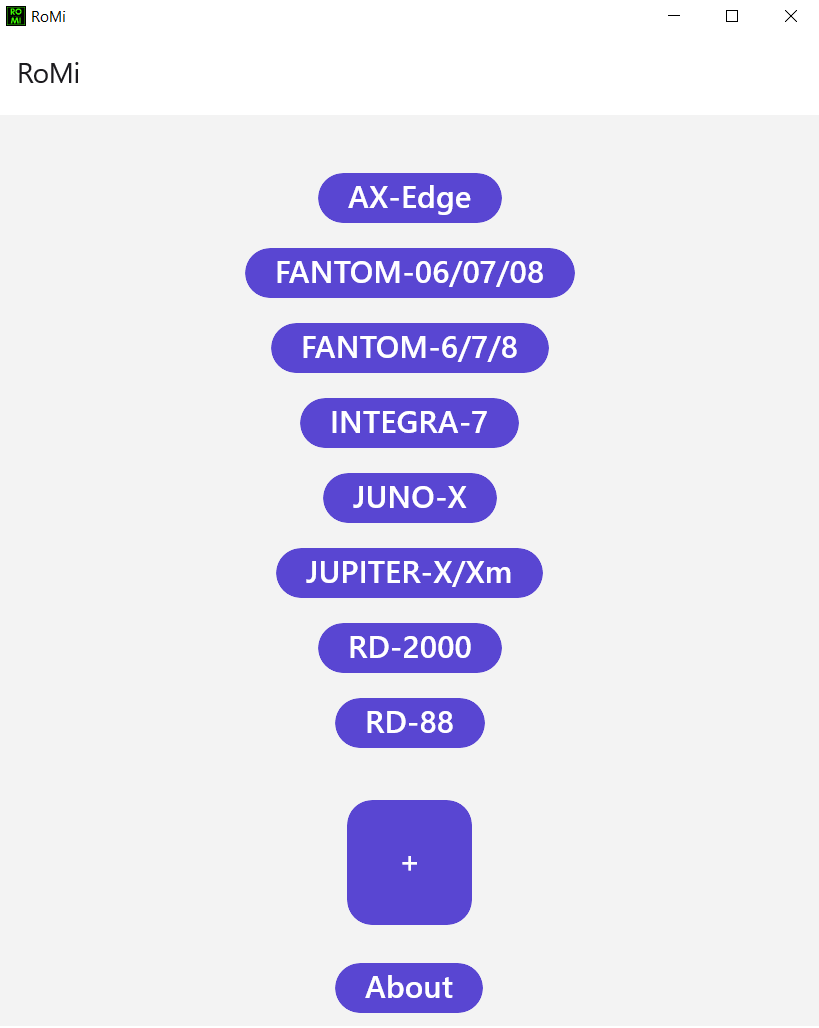
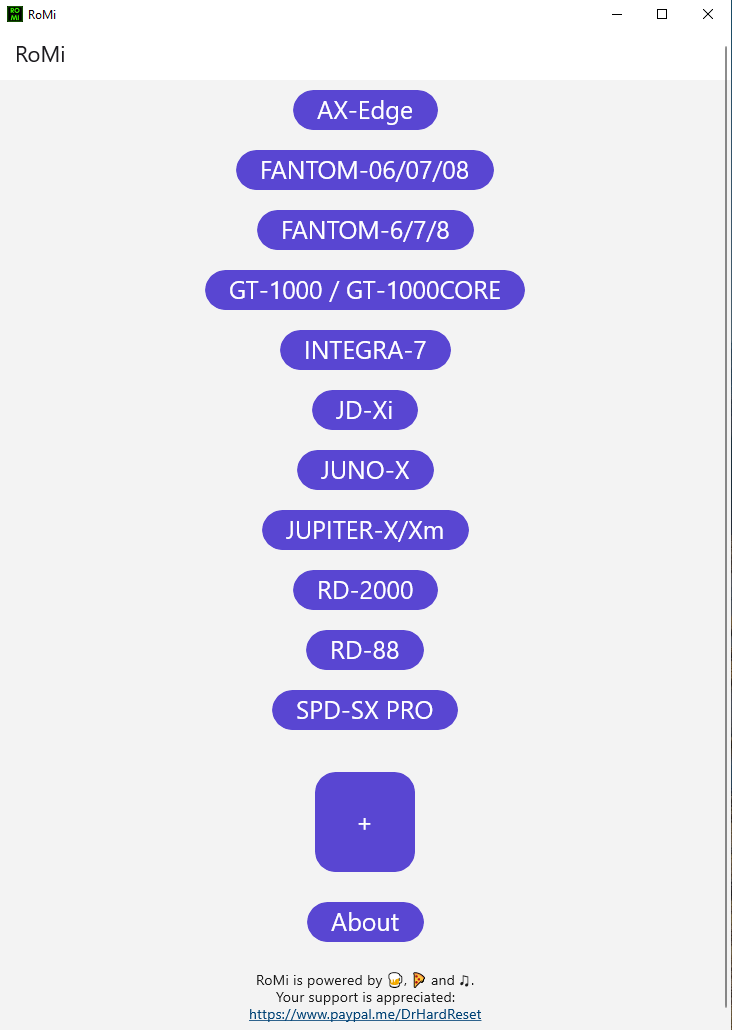
Updated: documentation

diff --git a/RoMi/Presentation/MainPage.xaml b/RoMi/Presentation/MainPage.xaml
@@ -12,7 +12,7 @@
   <ScrollViewer>
     <Grid utu:SafeArea.Insets="All">
       <Grid.RowDefinitions>
-        <RowDefinition Height="100" />
+        <RowDefinition Height="50" />
         <RowDefinition Height="Auto" />
         <RowDefinition Height="Auto" />
         <RowDefinition Height="Auto" />

diff --git a/README.md b/README.md
@@ -12,10 +12,17 @@ Just download the RoMi app, insert the midi implementation PDF and you're good t
 
 The app is tested for Roland AX-Edge only, but should generally work with the following devices:
 - AX-Edge
+- FANTOM-06/07/08
+- FANTOM-6/7/8
+- FA-06/07/08
+- GT-1000
+- INTEGRA-7
+- JD-Xi
+- JUNO-X
+- JUPITER-X/Xm
 - RD-88
 - RD-2000
-- FANTOM-06/07/08
-- FA-06/07/08
+- SPD-SX PRO
 
 RoMi is licensed under the [GPLv3 License][license-link].
 
@@ -25,7 +32,8 @@ I hope you'll find the app as useful as I do!
 
 <p float="left">
 	<img src="docs/mainview.png" width="400" align="top">
-	<img src="docs/midiview.png" width="400">
+	<img src="docs/midiview_combobox.png" width="400">
+	<img src="docs/midiview_tree.png" width="400">
 </p>
 
 ## USED THIRD-PARTY LIBRARIES
